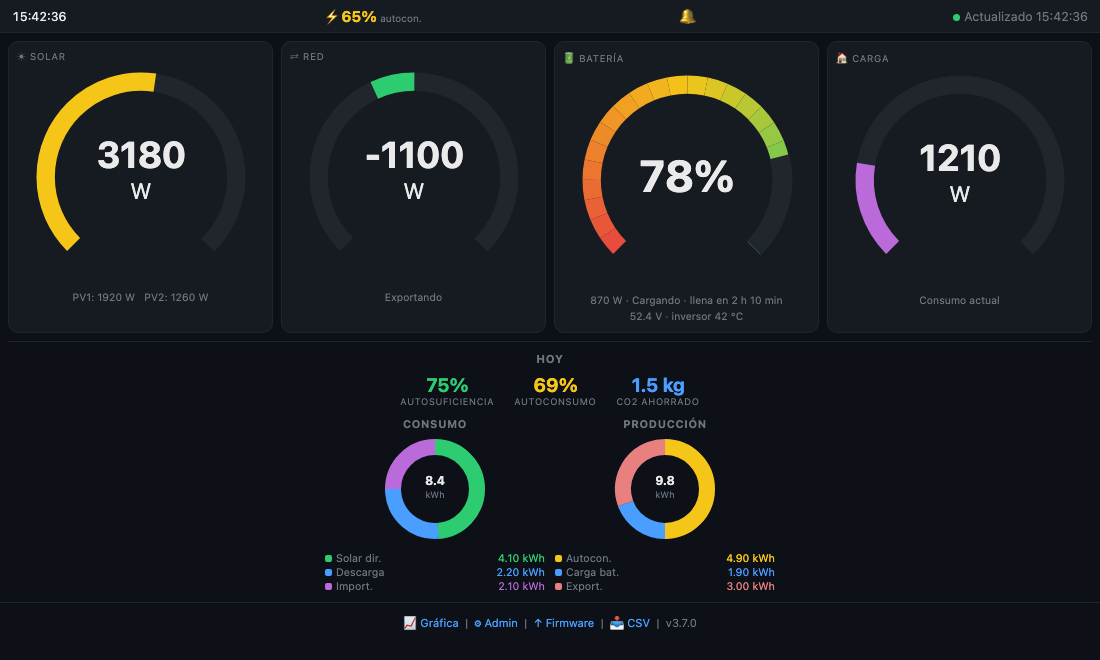
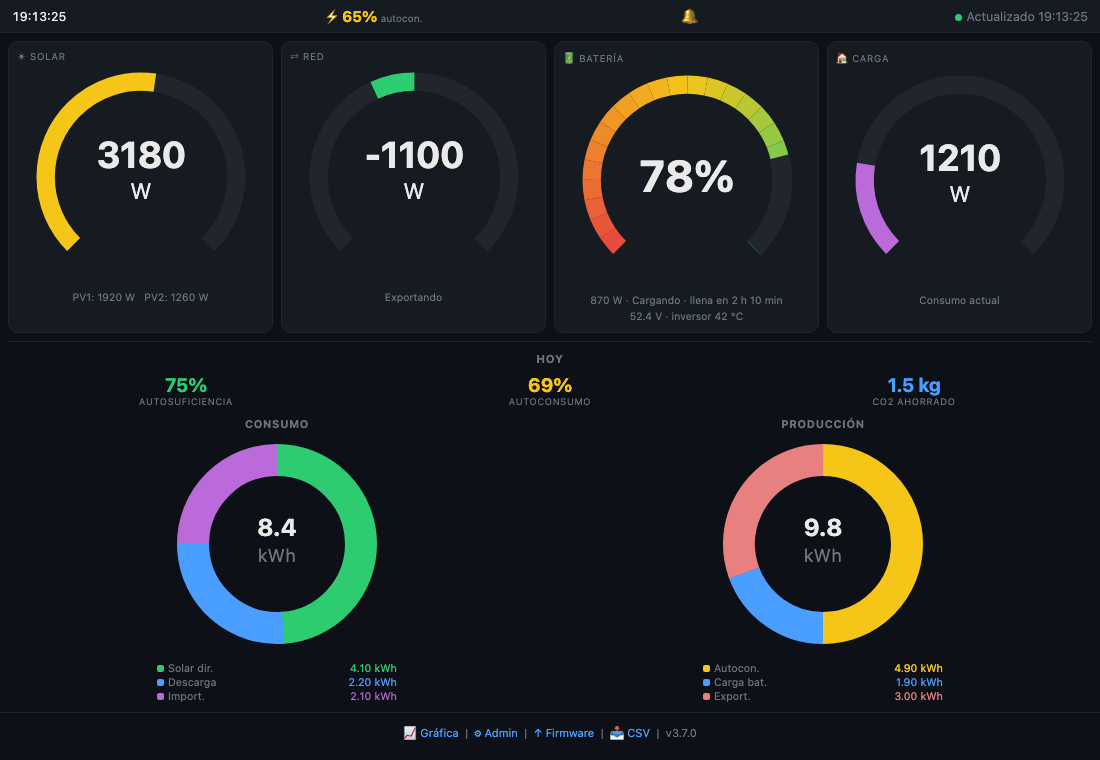
feat(web): el resumen «Hoy» del panel ocupa todo el ancho (sin hueco a los lados)
Los KPI pasan a una rejilla de 3 columnas y los donuts a flex:1 con SVG escalable (máx. 220 px, como los
arcos de las tarjetas); la leyenda se limita al ancho del donut. Verificado a 320/360/390/980 px.
capture-web.sh: flag para que Chrome pinte los arcos y alto 760 para la captura del manual.

diff --git a/src/web_server.cpp b/src/web_server.cpp
@@ -201,17 +201,20 @@ hr{border:none;border-top:1px solid var(--bd);margin:0 8px}
 .dw{padding:10px 8px 4px}
 .dw h2{font-size:.7rem;text-transform:uppercase;letter-spacing:.07em;
         color:var(--muted);text-align:center;margin-bottom:8px}
-.kpis{display:flex;gap:20px;justify-content:center;margin-bottom:10px}
-.kpi{text-align:center}
+/* «Hoy» ocupa todo el ancho, igual que las tarjetas: los tres KPI y los dos donuts se reparten el
+   espacio (antes tenían un ancho máximo y quedaban centrados con hueco a los lados). */
+.kpis{display:grid;grid-template-columns:repeat(3,1fr);gap:8px;margin-bottom:10px}
+.kpi{text-align:center;min-width:0}
 .kpi-v{font-size:1.2rem;font-weight:700}
 .kpi-l{font-size:.58rem;text-transform:uppercase;letter-spacing:.06em;color:var(--muted)}
-.donut-row{display:flex;gap:10px;justify-content:center;flex-wrap:wrap}
+.donut-row{display:flex;gap:8px;flex-wrap:wrap}
 .donut-box{display:flex;flex-direction:column;align-items:center;gap:4px;
-           flex:1;min-width:150px;max-width:220px}
+           flex:1 1 140px;min-width:0}
+.donut-box svg{display:block;width:100%;max-width:220px;height:auto}
 .donut-box h3{font-size:.68rem;text-transform:uppercase;
               letter-spacing:.06em;color:var(--muted)}
 .leg{display:grid;grid-template-columns:1fr 1fr;gap:2px 8px;
-     margin-top:4px;font-size:.67rem;width:100%}
+     margin-top:4px;font-size:.67rem;width:100%;max-width:240px}
 .li{display:flex;align-items:center;gap:4px}
 .ld{width:7px;height:7px;border-radius:2px;flex-shrink:0}
 footer{text-align:center;color:var(--muted);font-size:.7rem;

diff --git a/CHANGELOG.md b/CHANGELOG.md
@@ -4,6 +4,13 @@ Todos los cambios importantes de este proyecto están documentados en este fiche
 
 El formato sigue [Keep a Changelog](https://keepachangelog.com/es-ES/1.1.0/) y el proyecto usa [Versionado Semántico](https://semver.org/lang/es/).
 
+## [Unreleased]
+
+### Mejorado
+
+- **Panel web: el resumen «Hoy» ocupa todo el ancho**, con los mismos márgenes que las tarjetas de arriba. Antes los tres indicadores y los dos donuts tenían un ancho máximo y quedaban como un bloque centrado con espacio vacío a los lados (se notaba sobre todo en pantallas anchas o con la web en modo escritorio). Ahora los tres indicadores se reparten el ancho, los donuts se reparten una mitad cada uno y escalan con la pantalla (hasta 220 px, como los arcos de las tarjetas) y la leyenda se limita al ancho del donut. En móviles estrechos (320 px) sigue siendo de dos columnas. Comprobado con capturas del propio HTML del firmware a 320, 360, 390 y 980 px; no se ha visto aún en un equipo real.
+- `tools/screenshots/capture-web.sh`: usa `--run-all-compositor-stages-before-draw` (con el Chrome actual los arcos y donuts salían vacíos) y fotografía el panel a 1100×760; se regenera `docs/manual/img/web-dashboard.png`.
+
 ## [v4.4.0] - 2026-11-13
 
 ### Añadido
